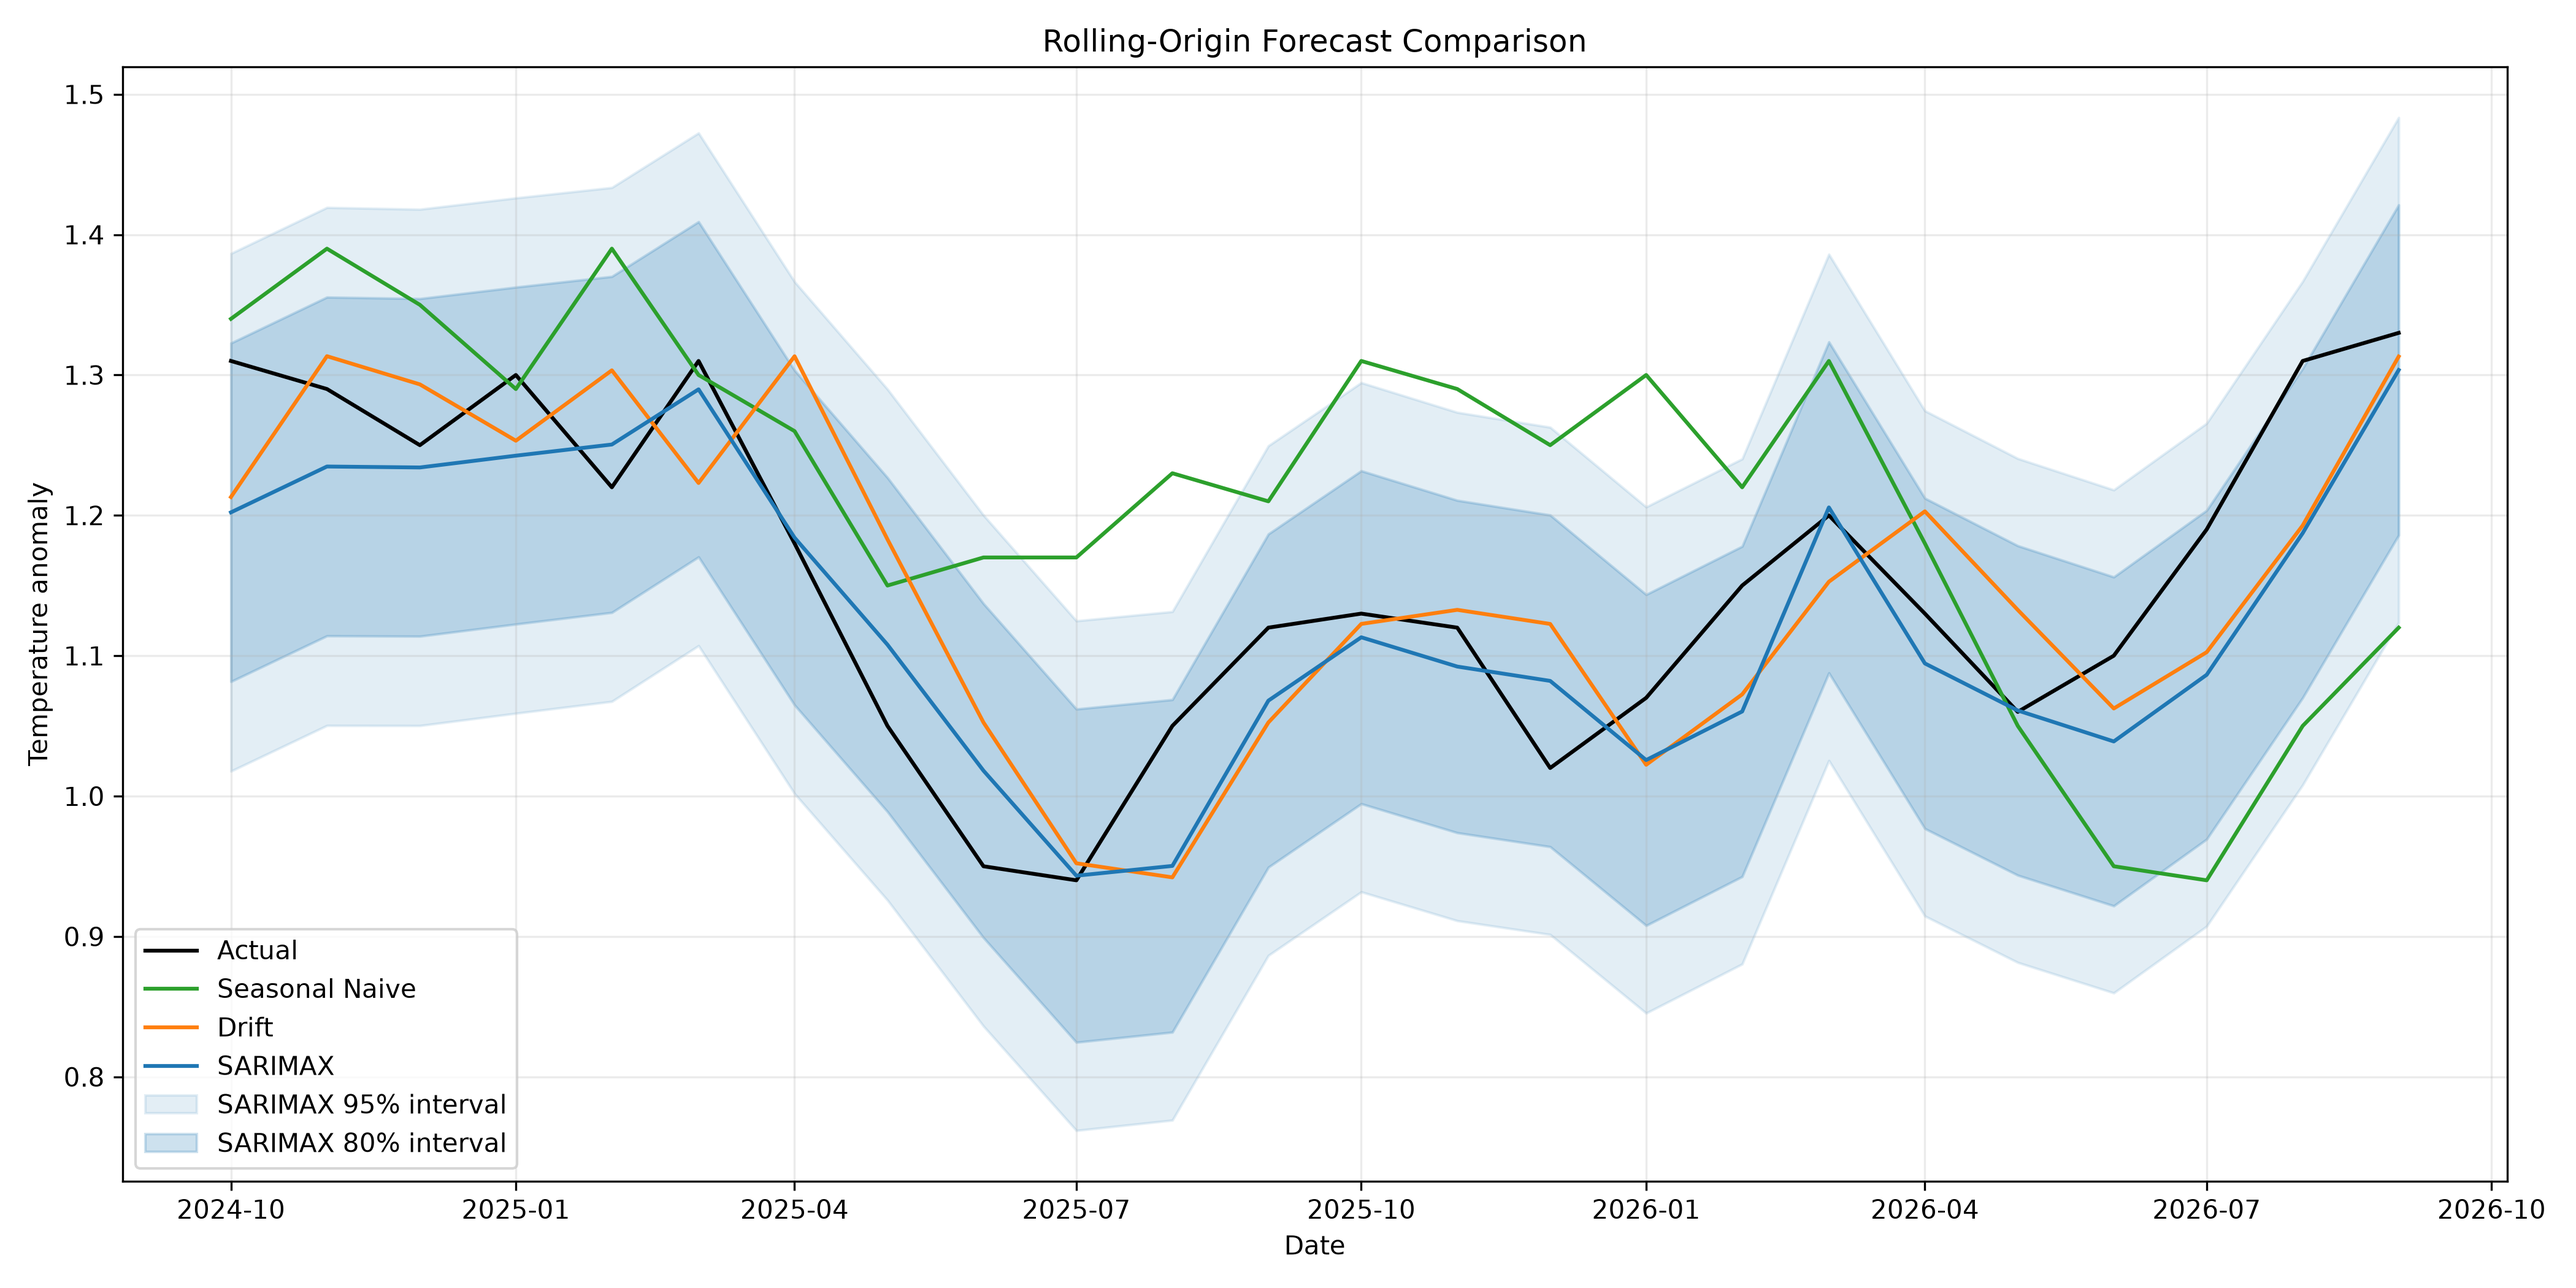
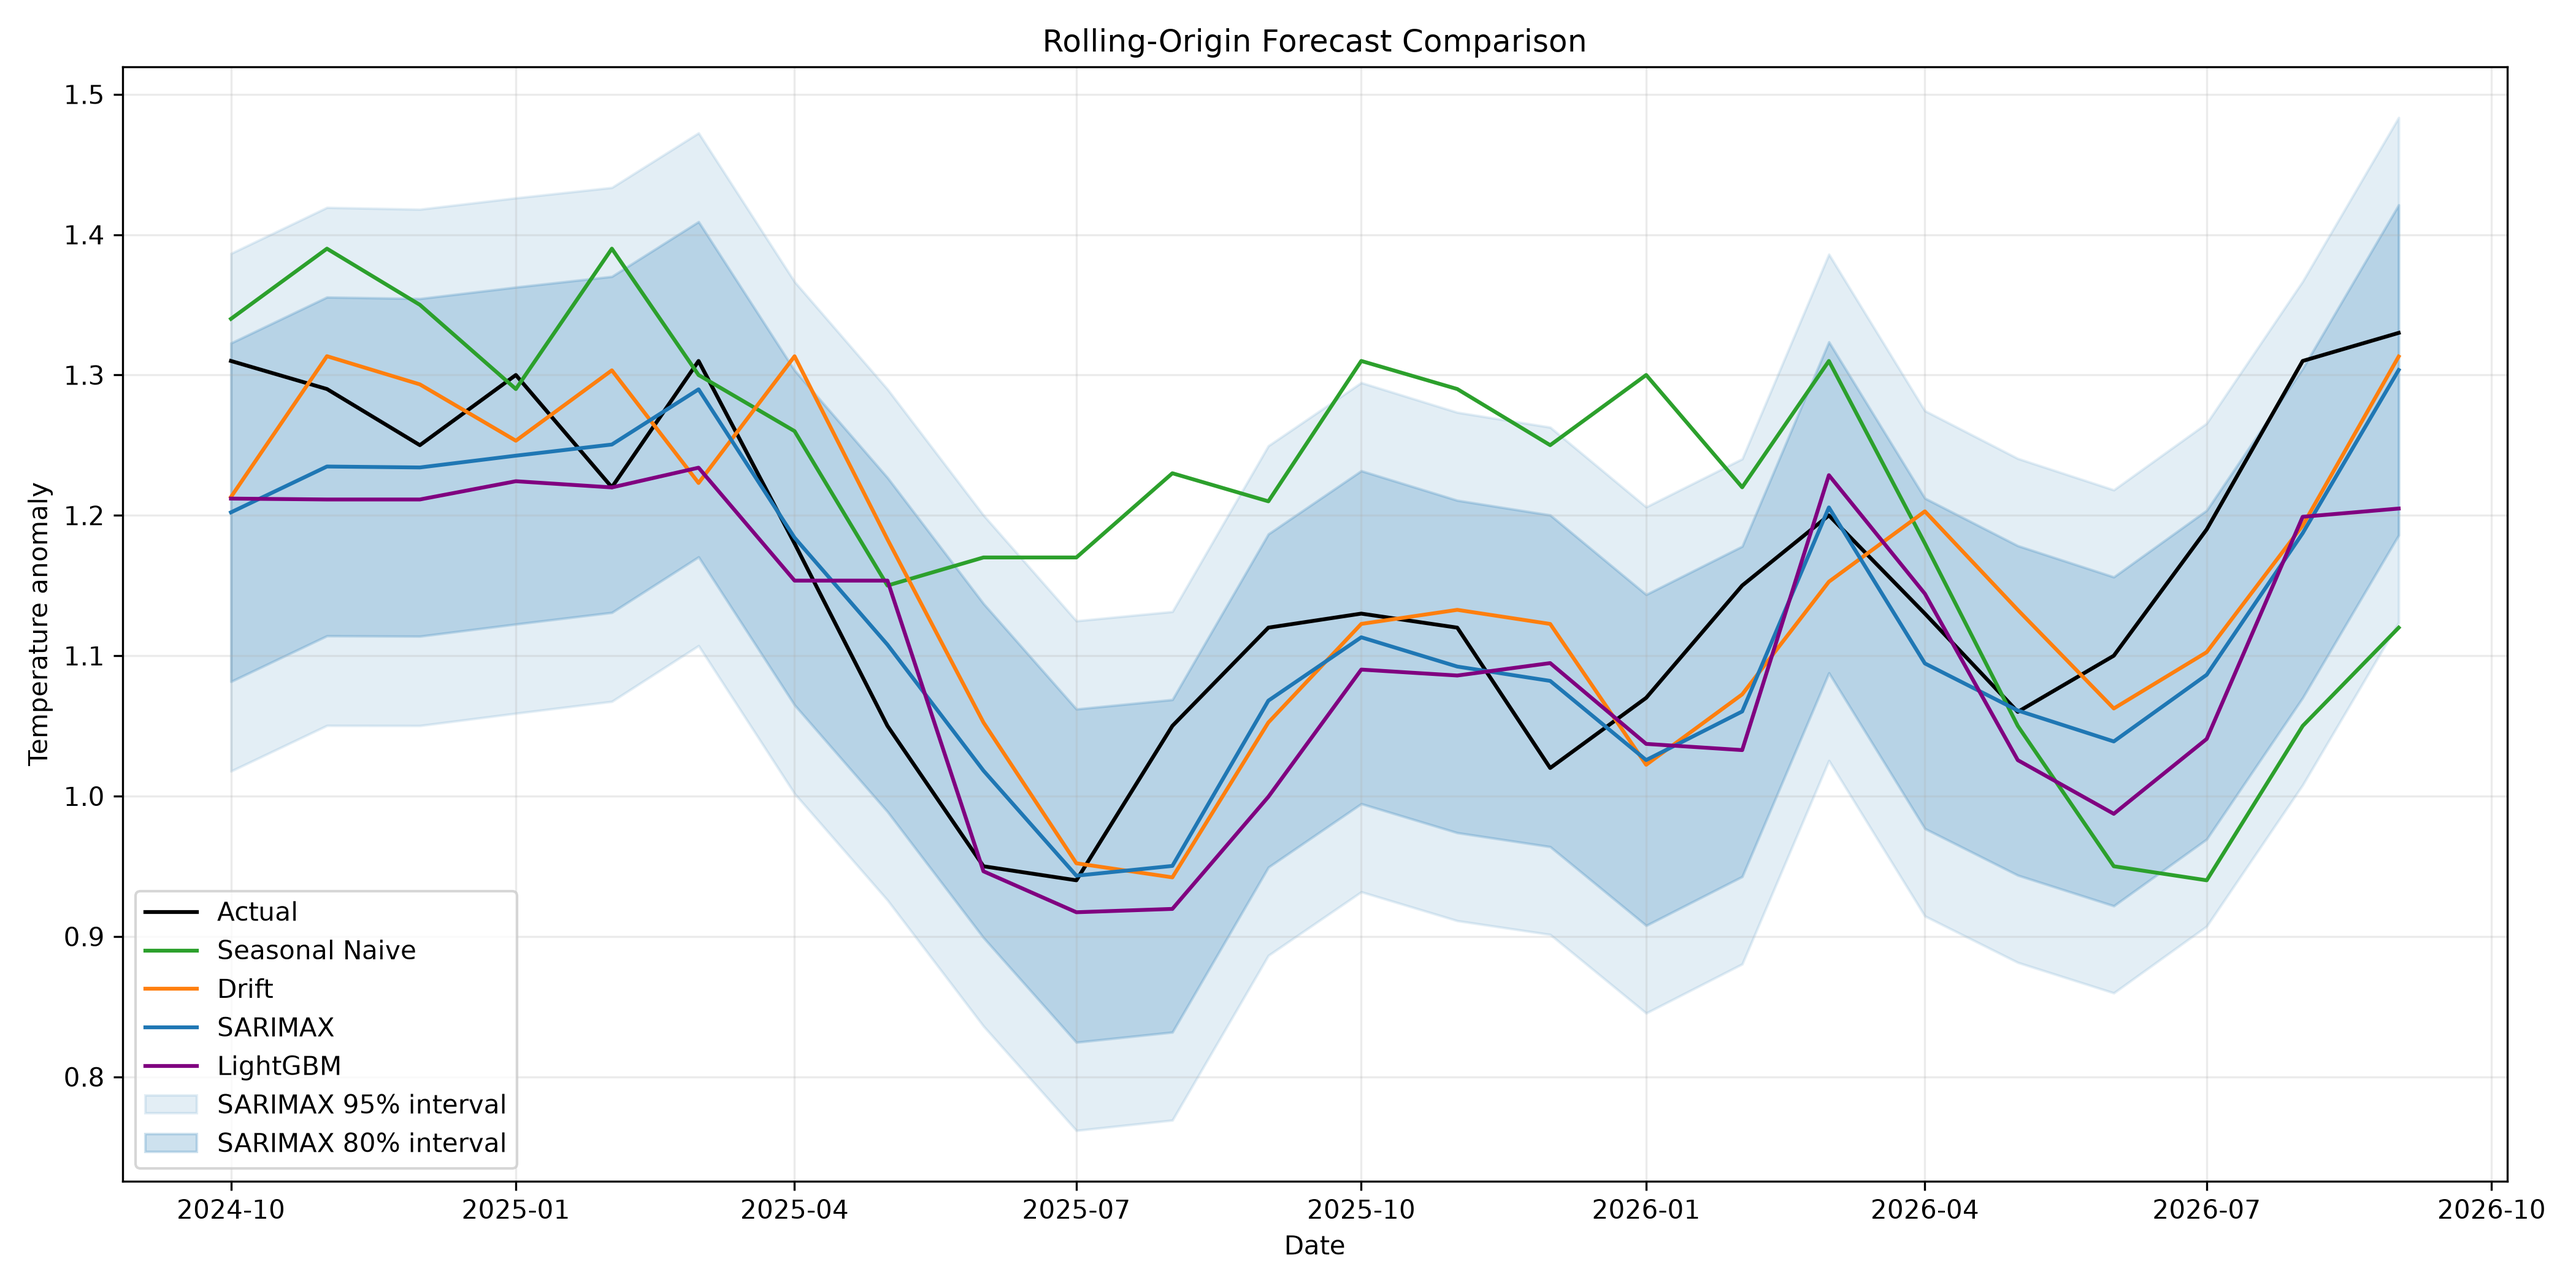
LightGBM 的误差和 SARIMAX这个比较，加入了一些简单的内容

diff --git a/scripts/forecast.py b/scripts/forecast.py
@@ -5,6 +5,7 @@ from __future__ import annotations
 from pathlib import Path
 
 import duckdb
+import lightgbm as lgb
 import matplotlib.pyplot as plt
 import numpy as np
 import pandas as pd
@@ -15,6 +16,14 @@ FIGURE_PATH = Path("outputs/figures/forecast_comparison.png")
 TEST_START = pd.Timestamp("2024-10-01")
 TEST_END = pd.Timestamp("2026-09-01")
 SEASONAL_PERIOD = 12
+FEATURE_COLUMNS = [
+    "lag_1",
+    "lag_3",
+    "lag_6",
+    "lag_12",
+    "rolling_mean_12",
+    "month",
+]
 
 
 def get_data() -> pd.DataFrame:
@@ -112,18 +121,64 @@ def sarimax_forecast(
     return mean, lower_80, upper_80, lower_95, upper_95
 
 
+def build_features(series: pd.Series) -> pd.DataFrame:
+    """Build lag, rolling-mean, and calendar features without forward filling."""
+    features = pd.DataFrame(index=series.index)
+    features["lag_1"] = series.shift(1)
+    features["lag_3"] = series.shift(3)
+    features["lag_6"] = series.shift(6)
+    features["lag_12"] = series.shift(12)
+    features["rolling_mean_12"] = series.shift(1).rolling(12).mean()
+    features["month"] = series.index.month
+    return features
+
+
+def train_lightgbm(train: pd.Series) -> lgb.LGBMRegressor:
+    """Fit LightGBM on features derived only from the training history."""
+    features = build_features(train)
+    training = features.assign(target=train).dropna()
+    model = lgb.LGBMRegressor(
+        objective="regression",
+        n_estimators=200,
+        learning_rate=0.03,
+        num_leaves=15,
+        max_depth=5,
+        random_state=42,
+        verbosity=-1,
+    )
+    model.fit(training[FEATURE_COLUMNS], training["target"])
+    return model
+
+
+def lightgbm_forecast(
+    model: lgb.LGBMRegressor,
+    history: pd.Series,
+    timestamp: pd.Timestamp,
+) -> float:
+    """Predict one month from a history that may contain prior predictions."""
+    series = pd.concat([history, pd.Series(index=[timestamp], dtype=float)])
+    feature_row = build_features(series).loc[[timestamp], FEATURE_COLUMNS]
+    return float(model.predict(feature_row)[0])
+
+
 def rolling_backtest(
     train: pd.Series,
     test: pd.Series,
 ) -> pd.DataFrame:
     """Run one-step-ahead rolling-origin predictions across the test set."""
     history = train.copy()
+    lightgbm_model = train_lightgbm(train)
     predictions: list[dict[str, float | pd.Timestamp]] = []
 
     for timestamp, actual in test.items():
         seasonal_naive = seasonal_naive_forecast(history)
         drift = drift_forecast(history)
         sarimax = sarimax_forecast(history)
+        lightgbm_prediction = lightgbm_forecast(
+            lightgbm_model,
+            history,
+            timestamp,
+        )
         predictions.append(
             {
                 "obs_date": timestamp,
@@ -135,6 +190,7 @@ def rolling_backtest(
                 "sarimax_upper_80": sarimax[2],
                 "sarimax_lower_95": sarimax[3],
                 "sarimax_upper_95": sarimax[4],
+                "lightgbm": lightgbm_prediction,
             }
         )
         history.loc[timestamp] = actual
@@ -155,6 +211,11 @@ def rmse(actual: pd.Series, predicted: pd.Series) -> float:
     return float(np.sqrt(((actual - predicted) ** 2).mean()))
 
 
+def mae(actual: pd.Series, predicted: pd.Series) -> float:
+    """Calculate mean absolute error."""
+    return float((actual - predicted).abs().mean())
+
+
 def evaluate(
     predictions: pd.DataFrame,
     training: pd.Series,
@@ -164,6 +225,7 @@ def evaluate(
         "Seasonal Naive": "seasonal_naive",
         "Drift": "drift",
         "SARIMAX": "sarimax",
+        "LightGBM": "lightgbm",
     }
     results = []
     actual = predictions["actual"]
@@ -174,6 +236,7 @@ def evaluate(
                 "model": model_name,
                 "MASE": mase(actual, forecast, training),
                 "RMSE": rmse(actual, forecast),
+                "MAE": mae(actual, forecast),
             }
         )
     return pd.DataFrame(results).set_index("model")
@@ -201,6 +264,12 @@ def plot_results(predictions: pd.DataFrame) -> None:
         predictions["sarimax"],
         label="SARIMAX",
         color="tab:blue",
+    )
+    axis.plot(
+        predictions.index,
+        predictions["lightgbm"],
+        label="LightGBM",
+        color="purple",
     )
     axis.fill_between(
         predictions.index,

diff --git a/README.md b/README.md
@@ -49,7 +49,7 @@ make test
 
 ### 4. 滚动回测预测对比 (Rolling-Origin Forecast)
 ![Forecast Comparison](outputs/figures/forecast_comparison.png)
-构建了 Rolling-Origin 回测框架。对比发现，季节性朴素模型（Seasonal Naive）因为无法捕捉最新趋势而失效；SARIMAX 模型能够很好地捕捉趋势与季节性，并将真实值包裹在 80% 的预测区间内。
+构建了 Rolling-Origin 回测框架，对比了季节性朴素、Drift、SARIMAX 和 LightGBM。结果显示，在 24 个月的长期预测中，SARIMAX 更好地捕捉了季节性波动和置信区间，而 LightGBM 由于递归预测的误差累积，表现出过度平滑的现象。
 
 ## 项目结构与技术栈
 
